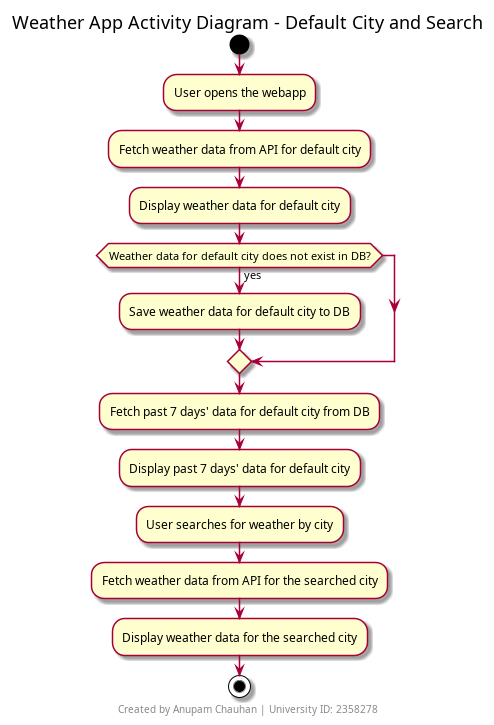
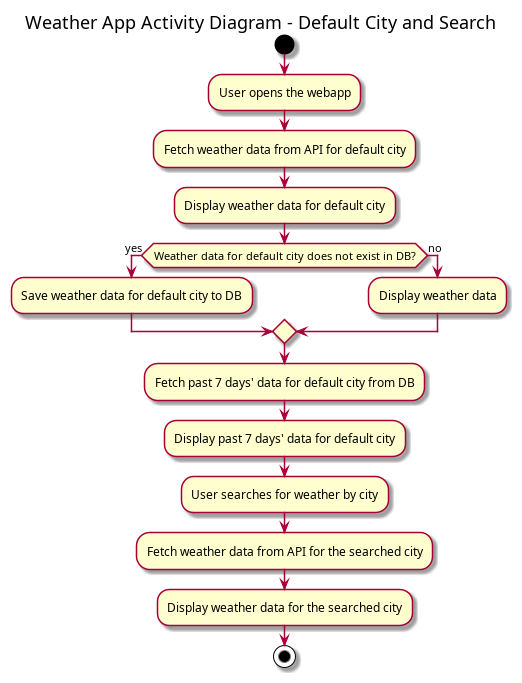
added the other city data to be saved in db

diff --git a/includes/displayWeatherData.php b/includes/displayWeatherData.php
@@ -3,52 +3,48 @@ include 'fetchWeatherData.php';
 
 function saveWeatherData($conn, $city, $weatherData)
 {
-    // Check if the city is Aberdeen (for storing the data of default city only)
-    if ($city === "Aberdeen") {
-        $temperature = $weatherData['main']['temp'];
-        $description = $weatherData['weather'][0]['description'];
-        $currentDate = date('Y-m-d');
-        $pressure = $weatherData['main']['pressure'];
-        $windSpeed = $weatherData['wind']['speed'];
-        $humidity = $weatherData['main']['humidity'];
+    $temperature = $weatherData['main']['temp'];
+    $description = $weatherData['weather'][0]['description'];
+    $currentDate = date('Y-m-d');
+    $pressure = $weatherData['main']['pressure'];
+    $windSpeed = $weatherData['wind']['speed'];
+    $humidity = $weatherData['main']['humidity'];
 
-        // Check if data already exists for today
-        $checkSql = "SELECT * FROM weather_data WHERE current_day_and_date = ?";
-        $checkStmt = $conn->prepare($checkSql);
-        $checkStmt->bind_param("s", $currentDate);
-        $checkStmt->execute();
-        $checkResult = $checkStmt->get_result();
+    // Check if data already exists for today
+    $checkSql = "SELECT * FROM weather_data WHERE city = ? AND current_day_and_date = ?";
+    $checkStmt = $conn->prepare($checkSql);
+    $checkStmt->bind_param("ss", $city, $currentDate);
+    $checkStmt->execute();
+    $checkResult = $checkStmt->get_result();
 
-        if ($checkResult->num_rows === 0) {
-            // Prepare the SQL statement for inserting new data
-            $insertSql = "INSERT INTO weather_data (city, temperature, description, current_day_and_date, pressure, wind_speed, humidity) VALUES (?, ?, ?, ?, ?, ?, ?)";
-            $insertStmt = $conn->prepare($insertSql);
-            $insertStmt->bind_param("sssssss", $city, $temperature, $description, $currentDate, $pressure, $windSpeed, $humidity);
+    if ($checkResult->num_rows === 0) {
+        // Prepare the SQL statement for inserting new data
+        $insertSql = "INSERT INTO weather_data (city, temperature, description, current_day_and_date, pressure, wind_speed, humidity) VALUES (?, ?, ?, ?, ?, ?, ?)";
+        $insertStmt = $conn->prepare($insertSql);
+        $insertStmt->bind_param("sssssss", $city, $temperature, $description, $currentDate, $pressure, $windSpeed, $humidity);
 
-            if ($insertStmt->execute()) {
-                echo "Today's weather data inserted successfully.";
-            } else {
-                echo "Error: " . $insertSql . "<br>" . $conn->error;
-            }
-
-            $insertStmt->close();
+        if ($insertStmt->execute()) {
+            echo "Today's weather data inserted successfully.";
         } else {
-            echo "Weather data for today already exists.";
+            echo "Error: " . $insertSql . "<br>" . $conn->error;
         }
 
-        $checkStmt->close();
+        $insertStmt->close();
     } else {
-        echo "Weather data will only be saved for Aberdeen.";
+        // echo "Weather data for today already exists.";
     }
+
+    $checkStmt->close();
+
 }
 
+$conn = new mysqli("localhost", "root", "", "weather"); // Update with your credentials
 $apiKey = "23d7b189189528d5ade1c10729887b94";
 if ($_SERVER['REQUEST_METHOD'] === 'POST' && isset($_POST['city'])) {
     $city = $_POST['city'];
 } else {
     $city = "Aberdeen";
 }
-$conn = new mysqli("localhost", "root", "", "weather"); // Update with your credentials
 
 if ($conn->connect_error) {
     die("Connection failed: " . $conn->connect_error);

diff --git a/includes/db_connection.php b/includes/db_connection.php
@@ -6,8 +6,6 @@ function connectToDatabase()
     $password = "";
     $database = "weather";
 
-    echo "connecting to the db";
-
     $conn = new mysqli($servername, $username, $password, $database);
 
 
@@ -16,8 +14,6 @@ function connectToDatabase()
 
         die("Connection failed: " . $conn->connect_error);
     }
-
-    echo "connected to the db";
 
     return $conn;
 }

diff --git a/index.php b/index.php
@@ -29,7 +29,6 @@
                 include './includes/displayWeatherData.php';
 
                 $conn = connectToDatabase();
-                echo "hello world";
 
                 ?>
             </div>
